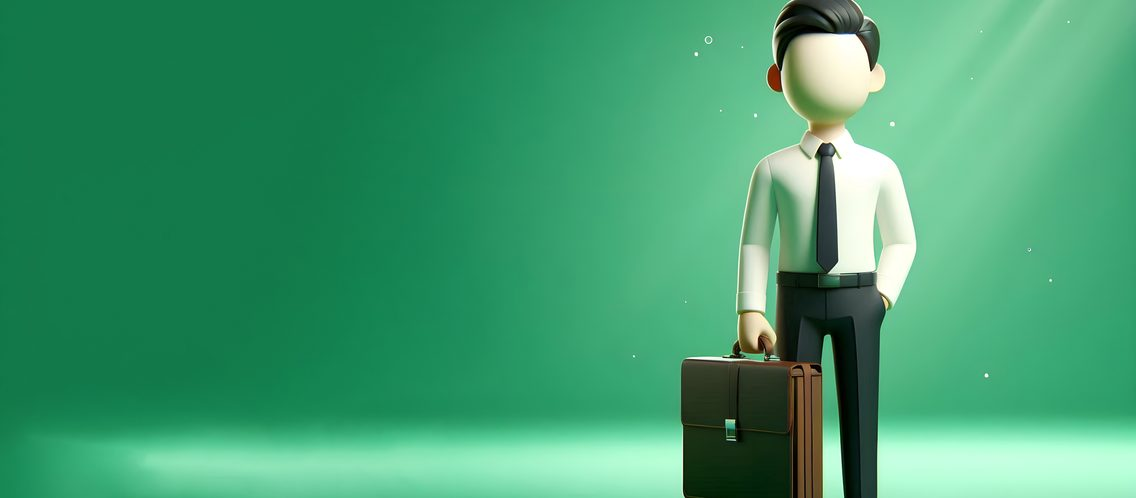
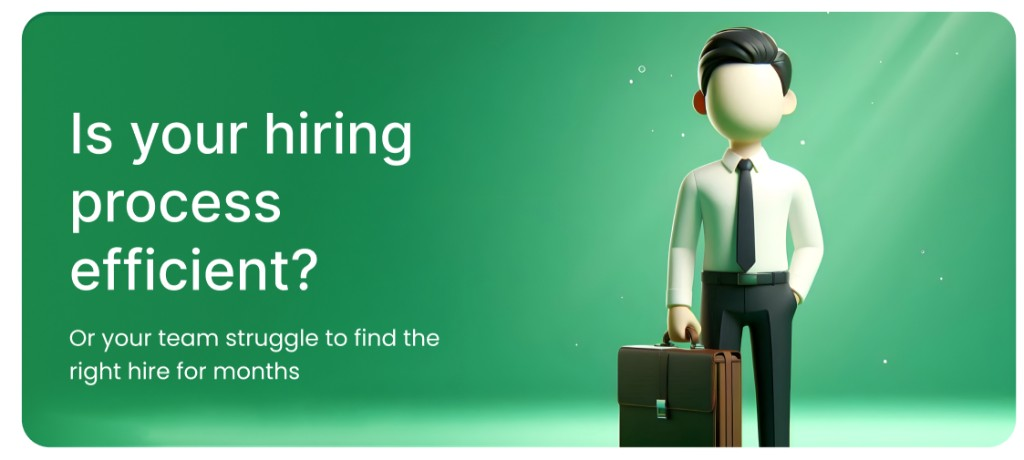
upated the changes for email template

diff --git a/ui/src/app/shared/services/public-image-url.service.ts b/ui/src/app/shared/services/public-image-url.service.ts
@@ -1,0 +1,52 @@
+import { Injectable } from '@angular/core';
+import { environment } from '../../../environments/environment';
+import { normalizeUrlPathSegment, toSafeHttpsOrigin } from '../helpers/public-url.helper';
+
+@Injectable({
+  providedIn: 'root'
+})
+export class PublicImageUrlService {
+  /**
+   * Returns a full absolute URL for an image under the configured email-image public path.
+   * Example output: https://mydomain.com/assets/email-images/banner.png
+   */
+  getEmailImageUrl(fileName: string): string {
+    const cleanFileName = normalizeUrlPathSegment(fileName);
+    if (!cleanFileName) {
+      return this.buildAbsoluteUrl(environment.emailImagesPublicPath);
+    }
+    return this.buildAbsoluteUrl(`${environment.emailImagesPublicPath}/${cleanFileName}`);
+  }
+
+  /**
+   * Returns full absolute URLs for a group of file names.
+   */
+  getEmailImageUrls(fileNames: string[]): Record<string, string> {
+    return fileNames.reduce<Record<string, string>>((acc, fileName) => {
+      acc[fileName] = this.getEmailImageUrl(fileName);
+      return acc;
+    }, {});
+  }
+
+  /**
+   * Generic helper when you already have a public path.
+   */
+  buildAbsoluteUrl(publicPath: string): string {
+    const baseOrigin = this.resolvePublicOrigin();
+    const normalizedPath = `/${normalizeUrlPathSegment(publicPath)}`;
+    return `${baseOrigin}${normalizedPath}`;
+  }
+
+  private resolvePublicOrigin(): string {
+    const configured = toSafeHttpsOrigin(environment.publicBaseUrl);
+    if (configured) {
+      return configured;
+    }
+
+    if (typeof window !== 'undefined' && window.location?.origin) {
+      return toSafeHttpsOrigin(window.location.origin);
+    }
+
+    return 'https://localhost';
+  }
+}

diff --git a/ui/src/app/shared/helpers/public-url.helper.ts b/ui/src/app/shared/helpers/public-url.helper.ts
@@ -1,0 +1,26 @@
+export function normalizeUrlPathSegment(value: string): string {
+  return value.trim().replace(/^\/+|\/+$/g, '');
+}
+
+export function toSafeHttpsOrigin(origin: string): string {
+  const trimmed = (origin ?? '').trim().replace(/\/+$/, '');
+  if (!trimmed) {
+    return '';
+  }
+
+  try {
+    const url = new URL(trimmed);
+    const isLocalHost =
+      url.hostname === 'localhost' ||
+      url.hostname === '127.0.0.1' ||
+      url.hostname === '[::1]' ||
+      url.hostname === '::1';
+
+    if (url.protocol === 'http:' && !isLocalHost) {
+      url.protocol = 'https:';
+    }
+    return `${url.origin}${url.pathname.replace(/\/+$/, '')}`;
+  } catch {
+    return trimmed;
+  }
+}

diff --git a/ui/src/environments/environment.ts b/ui/src/environments/environment.ts
@@ -1,0 +1,13 @@
+export const environment = {
+  production: true,
+  /**
+   * Public site origin used for absolute email image URLs.
+   * Example: https://mydomain.com
+   * Keep empty to auto-use current window origin.
+   */
+  publicBaseUrl: 'https://leadscoring.hiperbrains.com/',
+  /**
+   * Single public route for all images: /assets/images/{fileName}
+   */
+  emailImagesPublicPath: '/assets/images'
+};

diff --git a/ui/src/app/email-capture/email-capture.component.ts b/ui/src/app/email-capture/email-capture.component.ts
@@ -11,6 +11,7 @@ import { HttpClient } from '@angular/common/http';
 import { FormsModule } from '@angular/forms';
 import { NgIf } from '@angular/common';
 import { firstValueFrom } from 'rxjs';
+import { PublicImageUrlService } from '../shared/services/public-image-url.service';
 
 @Component({
   selector: 'app-email-capture',
@@ -21,6 +22,7 @@ import { firstValueFrom } from 'rxjs';
 })
 export class EmailCaptureComponent implements OnInit, AfterViewInit, OnDestroy {
   private readonly http = inject(HttpClient);
+  private readonly publicImageUrl = inject(PublicImageUrlService);
 
   @ViewChild('emailGate', { read: ElementRef }) private emailGateEl?: ElementRef<HTMLInputElement>;
 
@@ -40,6 +42,16 @@ export class EmailCaptureComponent implements OnInit, AfterViewInit, OnDestroy {
   private pageEnteredMs = Date.now();
   private alreadyCaptured = false;
   private hintEmail: string | null = null;
+
+  // Example usage for email templates/previews
+  readonly emailImageUrls = this.publicImageUrl.getEmailImageUrls([
+    'logo.png',
+    'hero-banner.jpg',
+    'facebook.png',
+    'instagram.png',
+    'x.png',
+    'youtube.png'
+  ]);
 
   /**
    * Chrome often defers autofill until focus; a one-time readonly shim helps autofill apply on first tap.

diff --git a/ui/src/environments/environment.development.ts b/ui/src/environments/environment.development.ts
@@ -1,0 +1,9 @@
+export const environment = {
+  production: false,
+  /**
+   * For local verification keep this empty so URLs use the current origin.
+   * Set explicitly if your API/static host is on a different public domain.
+   */
+  publicBaseUrl: 'https://localhost:7052',
+  emailImagesPublicPath: '/assets/images'
+};

diff --git a/api/LeadScoring.Api/Program.cs b/api/LeadScoring.Api/Program.cs
@@ -3,6 +3,8 @@ using LeadScoring.Api.Data;
 using LeadScoring.Api.Repositories;
 using LeadScoring.Api.Services;
 using System.Net;
+using Microsoft.AspNetCore.HttpOverrides;
+using Microsoft.Extensions.FileProviders;
 using Microsoft.EntityFrameworkCore;
 using Microsoft.EntityFrameworkCore.Diagnostics;
 
@@ -84,10 +86,64 @@ builder.Services.AddCors(opt =>
         .AllowCredentials());
 });
 
+builder.Services.Configure<ForwardedHeadersOptions>(options =>
+{
+    options.ForwardedHeaders = ForwardedHeaders.XForwardedFor | ForwardedHeaders.XForwardedProto;
+    options.KnownNetworks.Clear();
+    options.KnownProxies.Clear();
+});
+
 var app = builder.Build();
+
+app.UseForwardedHeaders();
+if (!app.Environment.IsDevelopment())
+{
+    app.UseHsts();
+    app.UseHttpsRedirection();
+}
 
 app.UseRouting();
 app.UseCors();
+
+var configuredEmailImagesPath = app.Configuration["PublicAssets:EmailImagesPhysicalPath"];
+var emailImagesSourcePath = ResolveEmailImagesSourcePath(configuredEmailImagesPath, app.Environment.ContentRootPath);
+
+var emailImagesRequestPath = app.Configuration["PublicAssets:EmailImagesRequestPath"];
+if (string.IsNullOrWhiteSpace(emailImagesRequestPath))
+{
+    emailImagesRequestPath = "/assets/images";
+}
+if (!emailImagesRequestPath.StartsWith('/'))
+{
+    emailImagesRequestPath = $"/{emailImagesRequestPath}";
+}
+
+if (Directory.Exists(emailImagesSourcePath))
+{
+    app.UseStaticFiles(new StaticFileOptions
+    {
+        FileProvider = new PhysicalFileProvider(emailImagesSourcePath),
+        RequestPath = emailImagesRequestPath,
+        OnPrepareResponse = ctx =>
+        {
+            // Public email assets: allow any origin to fetch images.
+            ctx.Context.Response.Headers["Access-Control-Allow-Origin"] = "*";
+            ctx.Context.Response.Headers["Access-Control-Allow-Methods"] = "GET,HEAD,OPTIONS";
+            ctx.Context.Response.Headers["Access-Control-Allow-Headers"] = "*";
+            ctx.Context.Response.Headers["Cross-Origin-Resource-Policy"] = "cross-origin";
+            ctx.Context.Response.Headers["Timing-Allow-Origin"] = "*";
+            ctx.Context.Response.Headers.Remove("Content-Security-Policy");
+            ctx.Context.Response.Headers["Cache-Control"] = "public,max-age=31536000,immutable";
+            ctx.Context.Response.Headers["X-Content-Type-Options"] = "nosniff";
+        }
+    });
+}
+else
+{
+    app.Logger.LogWarning("Email image static path not found. Configured path: {ConfiguredPath}. Resolved path: {ResolvedPath}",
+        configuredEmailImagesPath,
+        emailImagesSourcePath);
+}
 
 // Authenticated JSON endpoints must not be cached by browsers/CDNs/reverse proxies.
 // Without this, conditional GETs (If-None-Match / If-Modified-Since) can return 304 with no
@@ -98,7 +154,8 @@ app.Use(async (context, next) =>
     {
         var path = context.Request.Path.Value ?? string.Empty;
         if (!path.StartsWith("/swagger", StringComparison.OrdinalIgnoreCase) &&
-            !path.Equals("/health", StringComparison.OrdinalIgnoreCase))
+            !path.Equals("/health", StringComparison.OrdinalIgnoreCase) &&
+            !path.StartsWith(emailImagesRequestPath, StringComparison.OrdinalIgnoreCase))
         {
             context.Response.Headers["Cache-Control"] = "no-store, no-cache, must-revalidate, max-age=0";
             context.Response.Headers["Pragma"] = "no-cache";
@@ -156,4 +213,36 @@ static bool IsPrivateNetworkHost(string host)
                (bytes[0] == 172 && bytes[1] >= 16 && bytes[1] <= 31) ||
                (bytes[0] == 192 && bytes[1] == 168)
            );
+}
+
+static string ResolveEmailImagesSourcePath(string? configuredPath, string contentRootPath)
+{
+    if (!string.IsNullOrWhiteSpace(configuredPath))
+    {
+        var explicitPath = Path.GetFullPath(configuredPath);
+        if (Directory.Exists(explicitPath))
+        {
+            return explicitPath;
+        }
+    }
+
+    var candidatePaths = new[]
+    {
+        Path.Combine(contentRootPath, "..", "..", "ui", "src", "assets", "images"),
+        Path.Combine(contentRootPath, "..", "..", "..", "..", "ui", "src", "assets", "images"),
+        Path.Combine(contentRootPath, "ui", "src", "assets", "images"),
+        Path.Combine(Directory.GetCurrentDirectory(), "ui", "src", "assets", "images"),
+        Path.Combine(Directory.GetCurrentDirectory(), "..", "ui", "src", "assets", "images")
+    };
+
+    foreach (var candidate in candidatePaths)
+    {
+        var fullPath = Path.GetFullPath(candidate);
+        if (Directory.Exists(fullPath))
+        {
+            return fullPath;
+        }
+    }
+
+    return Path.GetFullPath(candidatePaths[0]);
 }